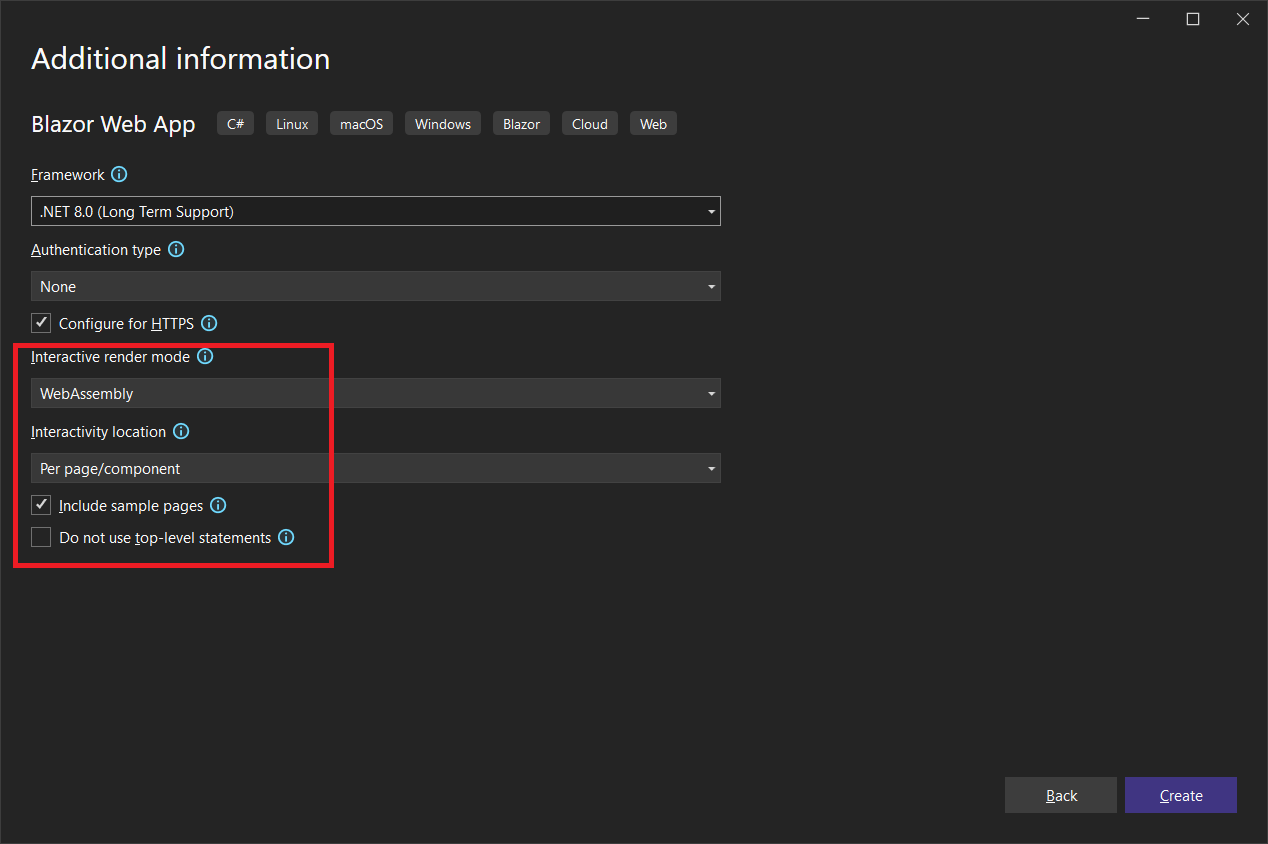
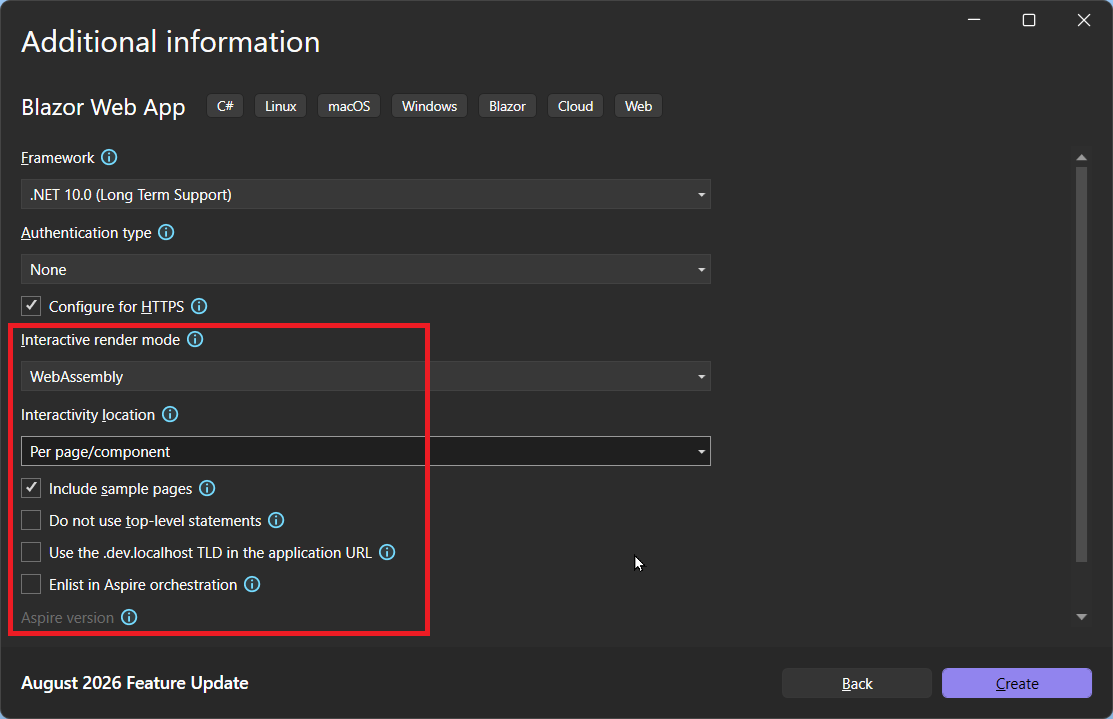
updated the image in the readme

diff --git a/StateTest1/StateTest1/Program.cs b/StateTest1/StateTest1/Program.cs
@@ -29,8 +29,9 @@ else
 
 app.UseHttpsRedirection();
 
-app.UseStaticFiles();
 app.UseAntiforgery();
+
+app.MapStaticAssets();
 
 app.MapRazorComponents<App>()
     .AddInteractiveWebAssemblyRenderMode()
